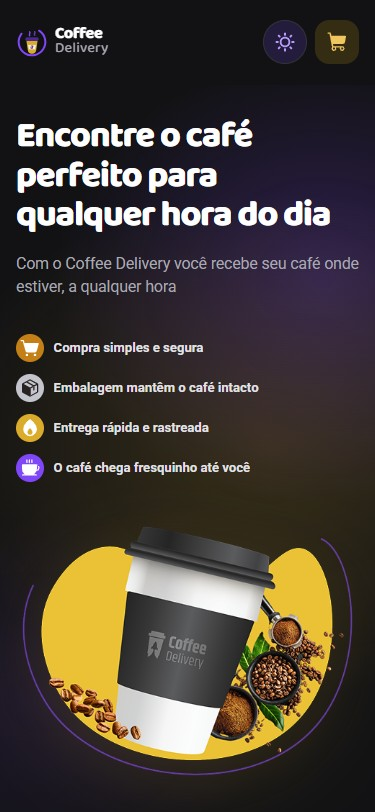
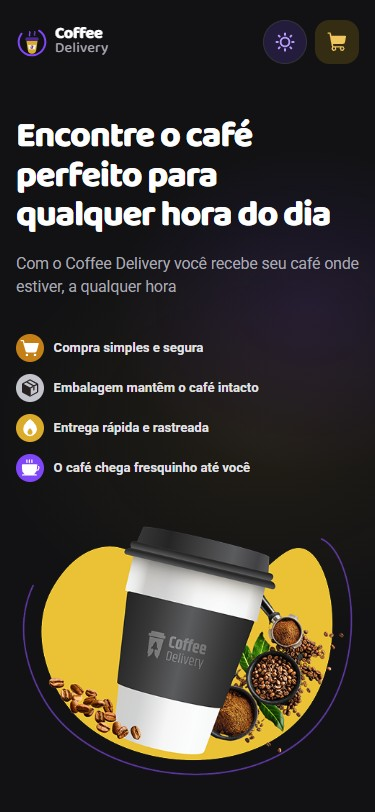
fix: restore figma aligned effects after glow review

diff --git a/src/styles/index.css b/src/styles/index.css
@@ -9,22 +9,11 @@
 @theme {
   --ease-fluid: cubic-bezier(0.22, 1, 0.36, 1);
 
-  --color-brand-purple: var(--purple);
-  --color-brand-yellow: var(--yellow);
-
   --shadow-elev-xs: var(--shadow-xs);
   --shadow-elev-sm: var(--shadow-sm);
   --shadow-elev-md: var(--shadow-md);
   --shadow-elev-lg: var(--shadow-lg);
   --shadow-elev-brand: var(--shadow-brand);
-  --shadow-glow-purple:
-    0 0 0 1px color-mix(in srgb, var(--purple) 38%, transparent),
-    0 10px 28px -10px color-mix(in srgb, var(--purple) 60%, transparent);
-  --shadow-glow-gold:
-    0 0 0 1px color-mix(in srgb, var(--yellow) 50%, transparent),
-    0 12px 32px -10px color-mix(in srgb, var(--yellow) 75%, transparent);
-  --shadow-glow-soft:
-    0 0 24px -8px color-mix(in srgb, var(--purple) 28%, transparent);
 
   --animate-fade-up: fade-up 420ms var(--ease-fluid) both;
   --animate-fade-up-card: fade-up 520ms var(--ease-fluid) both;
@@ -42,8 +31,6 @@
   --animate-spin-slow: spin 0.9s linear infinite;
   --animate-float: float 6s ease-in-out infinite;
   --animate-confetti: confetti-fall 2.4s cubic-bezier(0.22, 0.61, 0.36, 1) forwards;
-  --animate-glow-breathe: glow-breathe 8s ease-in-out infinite;
-  --animate-shine: shine 900ms ease-out;
 
   @keyframes fade-up {
     from {
@@ -120,24 +107,6 @@
     }
   }
 
-  @keyframes glow-breathe {
-    0%,
-    100% {
-      opacity: 0.75;
-    }
-    50% {
-      opacity: 1;
-    }
-  }
-
-  @keyframes shine {
-    0% {
-      transform: translateX(-120%);
-    }
-    100% {
-      transform: translateX(120%);
-    }
-  }
 }
 
 /* ------------------------------------------------------------------ */
@@ -392,7 +361,7 @@ legend {
   left: 0;
   background: linear-gradient(
     90deg,
-    color-mix(in srgb, var(--purple) 18%, transparent),
+    color-mix(in srgb, var(--purple) 12%, transparent),
     transparent
   );
 }
@@ -401,7 +370,7 @@ legend {
   right: 0;
   background: linear-gradient(
     -90deg,
-    color-mix(in srgb, var(--purple) 18%, transparent),
+    color-mix(in srgb, var(--purple) 12%, transparent),
     transparent
   );
 }

diff --git a/src/pages/Home/styles.module.css b/src/pages/Home/styles.module.css
@@ -21,40 +21,29 @@
   z-index: 0;
   background:
     radial-gradient(
-      30rem 22rem at 72% 48%,
-      rgba(219, 172, 44, 0.32),
-      transparent 72%
-    ),
-    radial-gradient(
-      24rem 20rem at 86% 26%,
-      rgba(128, 71, 248, 0.22),
+      24rem 18rem at 70% 46%,
+      rgba(219, 172, 44, 0.15),
       transparent 70%
     ),
     radial-gradient(
-      20rem 16rem at 12% 82%,
-      rgba(241, 233, 201, 0.24),
-      transparent 72%
+      18rem 15rem at 82% 30%,
+      rgba(128, 71, 248, 0.09),
+      transparent 68%
     );
-  @apply animate-glow-breathe;
   pointer-events: none;
 }
 
 [data-theme='dark'] .hero::before {
   background:
     radial-gradient(
-      30rem 22rem at 72% 48%,
-      rgba(219, 172, 44, 0.18),
-      transparent 72%
-    ),
-    radial-gradient(
-      24rem 20rem at 86% 26%,
-      rgba(128, 71, 248, 0.26),
+      24rem 18rem at 70% 46%,
+      rgba(219, 172, 44, 0.08),
       transparent 70%
     ),
     radial-gradient(
-      20rem 16rem at 12% 82%,
-      rgba(128, 71, 248, 0.1),
-      transparent 72%
+      18rem 15rem at 82% 30%,
+      rgba(128, 71, 248, 0.13),
+      transparent 68%
     );
 }
 
@@ -150,7 +139,6 @@
 .heroImage {
   width: min(100%, 29.75rem);
   height: auto;
-  @apply drop-shadow-[0_18px_38px_rgba(219,172,44,0.18)];
 }
 
 /* ------------------------------------------------------------------ */
@@ -201,7 +189,7 @@
   font-weight: 700;
   letter-spacing: 0.03em;
   text-transform: uppercase;
-  @apply transition-[background-color,color,border-color,transform,box-shadow] duration-[140ms];
+  @apply transition-[background-color,color,border-color,transform] duration-[140ms];
 }
 
 .filter:hover {
@@ -215,7 +203,6 @@
   background: var(--purple-solid);
   border-color: var(--purple-solid);
   color: var(--on-purple-solid);
-  @apply shadow-glow-purple;
 }
 
 .grid {

diff --git a/src/pages/Checkout/styles.module.css b/src/pages/Checkout/styles.module.css
@@ -1025,7 +1025,6 @@
 }
 
 .submit {
-  position: relative;
   display: flex;
   align-items: center;
   justify-content: center;
@@ -1042,32 +1041,13 @@
   font-weight: 700;
   letter-spacing: 0.045em;
   text-transform: uppercase;
-  overflow: hidden;
   @apply transition-[background-color,transform,box-shadow] duration-[140ms];
 }
 
-.submit::after {
-  content: '';
-  position: absolute;
-  inset: 0;
-  pointer-events: none;
-  background: linear-gradient(
-    100deg,
-    transparent 30%,
-    rgba(255, 255, 255, 0.38) 50%,
-    transparent 70%
-  );
-  transform: translateX(-120%);
-}
-
-.submit:hover:not(:disabled) {
+.submit:hover {
   background: var(--yellow-dark);
   color: #ffffff;
-  @apply -translate-y-px shadow-glow-gold;
-}
-
-.submit:hover:not(:disabled)::after {
-  @apply animate-shine;
+  @apply -translate-y-px shadow-elev-brand;
 }
 
 .submit:active {

diff --git a/src/components/EmptyState/styles.module.css b/src/components/EmptyState/styles.module.css
@@ -36,7 +36,6 @@
 }
 
 .action {
-  position: relative;
   display: inline-flex;
   align-items: center;
   justify-content: center;
@@ -50,30 +49,11 @@
   text-transform: uppercase;
   font-size: 0.8125rem;
   letter-spacing: 0.04em;
-  overflow: hidden;
   @apply transition-[background-color,transform,box-shadow] duration-[140ms];
-}
-
-.action::after {
-  content: '';
-  position: absolute;
-  inset: 0;
-  pointer-events: none;
-  background: linear-gradient(
-    100deg,
-    transparent 30%,
-    rgba(255, 255, 255, 0.38) 50%,
-    transparent 70%
-  );
-  transform: translateX(-120%);
 }
 
 .action:hover {
   background: var(--yellow-dark);
   color: #ffffff;
-  @apply -translate-y-px shadow-glow-gold;
-}
-
-.action:hover::after {
-  @apply animate-shine;
+  @apply -translate-y-px shadow-elev-brand;
 }

diff --git a/src/pages/Success/styles.module.css b/src/pages/Success/styles.module.css
@@ -241,7 +241,6 @@
 }
 
 .cta {
-  position: relative;
   display: flex;
   align-items: center;
   justify-content: center;
@@ -257,32 +256,13 @@
   font-weight: 700;
   letter-spacing: 0.04em;
   text-transform: uppercase;
-  overflow: hidden;
   @apply transition-[background-color,transform,box-shadow] duration-[140ms];
-}
-
-.cta::after {
-  content: '';
-  position: absolute;
-  inset: 0;
-  pointer-events: none;
-  background: linear-gradient(
-    100deg,
-    transparent 30%,
-    rgba(255, 255, 255, 0.38) 50%,
-    transparent 70%
-  );
-  transform: translateX(-120%);
 }
 
 .cta:hover {
   background: var(--yellow-dark);
   color: #ffffff;
-  @apply -translate-y-px shadow-glow-gold;
-}
-
-.cta:hover::after {
-  @apply animate-shine;
+  @apply -translate-y-px shadow-elev-brand;
 }
 
 .confetti {

diff --git a/src/components/CoffeeCard/styles.module.css b/src/components/CoffeeCard/styles.module.css
@@ -109,12 +109,11 @@
   border-radius: 0.5rem;
   background: var(--purple-solid);
   color: var(--on-purple-solid);
-  @apply transition-[background-color,transform,box-shadow] duration-[140ms];
+  @apply transition-[background-color,transform] duration-[140ms];
 }
 
 .addButton:hover {
   background: var(--purple);
-  @apply shadow-glow-purple;
 }
 
 .addButton:active {
@@ -128,7 +127,6 @@
 
 .added:hover {
   background: var(--success);
-  @apply shadow-none;
 }
 
 @media (max-width: 640px), (pointer: coarse) {

diff --git a/src/components/Header/styles.module.css b/src/components/Header/styles.module.css
@@ -62,13 +62,12 @@
   border-radius: 0.9rem;
   background: var(--yellow-light);
   color: var(--yellow-text);
-  @apply transition-[background-color,color,transform,box-shadow] duration-[140ms];
+  @apply transition-[background-color,color,transform] duration-[140ms];
 }
 
 .cart:hover {
   background: var(--yellow);
   color: #272221;
-  @apply shadow-glow-gold;
 }
 
 .cart:active {

diff --git a/docs/AI_USAGE.md b/docs/AI_USAGE.md
@@ -174,7 +174,7 @@ Com os quadros oficiais de estilo e o próprio arquivo do Figma em mãos (18/11/
 **Lote 4 (efeitos em Tailwind CSS)**
 
 - Instalado **Tailwind CSS 4** com `@tailwindcss/vite`; o projeto continua usando CSS Modules para layout, cores, tipografia e temas.
-- Um bloco `@theme` em `src/styles/index.css` centraliza apenas tokens de efeito: `--animate-*`, `--ease-fluid`, `--shadow-elev-*` e `--color-brand-*`.
+- Um bloco `@theme` em `src/styles/index.css` centraliza apenas tokens de efeito: `--animate-*`, `--ease-fluid` e `--shadow-elev-*`.
 - Cada módulo que tem efeito passou a usar `@reference ../../styles/index.css` e `@apply` para transições, hover, active, sombras e animações. Os keyframes (`fade-up`, `pop`, `fade-in`, `toast-in`, `spin`, `confetti-fall`) saíram dos módulos e vivem no `@theme`.
 - A intenção foi **trocar a implementação dos efeitos, não o visual**: os 19 testes E2E, os 124 testes unitários e as capturas foram revalidadas após a migração.
 
@@ -190,6 +190,13 @@ Com os quadros oficiais de estilo e o próprio arquivo do Figma em mãos (18/11/
 
 - **Background com cor visível**: o halo do hero foi reforçado (âmbar 32%, lavanda 22% e um terceiro radial creme) e o glow lateral das páginas subiu de 12% para 18%, para que os efeitos apareçam de fato no tema claro.
 - **Miniatura do carrinho**: o fundo amarelo (`--yellow-light`) foi trocado por `--bg-subtle` (`#F3F2F2`), eliminando o quadrado amarelo atrás do PNG do produto.
+
+**Lote 7 (revisão final dos efeitos)**
+
+- O pedido de **glow/brilho** foi aplicado, mas os valores resultantes divergiram do frame Figma.
+- A revisão restaurou o halo do hero (âmbar 0.15 / lavanda 0.09 no claro), o glow lateral (12%), o `drop-shadow` do hero e os efeitos de botão ao estado auditado.
+- Removidos os tokens `--shadow-glow-*`, `--animate-glow-breathe`, `--animate-shine`, os glows de botões, os filtros ativos e o sweep de brilho, restaurando as utilidades originais.
+- A miniatura do carrinho permanece sem fundo amarelo (`--bg-subtle`).
 
 A auditoria foi feita **no próprio Figma view-only dentro do browser**, com zoom no canvas por rueda sintética — o MCP oficial do Figma não ficou disponível na sessão (o bloco `mcpServers` precisava virar `mcp.remote` no `opencode.json` e a sessão exigiria reabrir para os tools aparecerem; a URL fornecida abre em modo de visualização pública). As telas de Dark Mode e mobile do Figma não existem no arquivo — o dark mode segue a adaptação do projeto.
 

diff --git a/docs/TASKS_SPEC.md b/docs/TASKS_SPEC.md
@@ -35,6 +35,7 @@ Este documento registra o planejamento granular do desenvolvimento do **Coffee D
 | **TASK-23** | Efeitos em Tailwind CSS | RF-15, RNF-01 | `vite.config.ts`, `package.json`, `src/styles/index.css`, CSS Modules de componentes/páginas, `docs/*.md`, `README.md` | Hover, transições, sombras e animações via utilities/tokens Tailwind, sem mudança visual | `style: migrate ui effects to tailwind css` | [x] Concluído — `@tailwindcss/vite` + `@theme` de efeitos; `@apply`/`@reference` nos módulos; 124 unitários e 19 E2E verdes, capturas revalidadas |
 | **TASK-24** | Glow e brilho na interface | RF-15, RF-16 | `src/styles/index.css`, `src/pages/Home/styles.module.css`, `src/pages/Checkout/styles.module.css`, `src/pages/Success/styles.module.css`, `src/components/*/styles.module.css`, `docs/*.md`, `README.md` | Halo do hero com respiração, glow nos botões e sweep de brilho nas CTAs | `style: add hero glow and button shine` | [x] Concluído — tokens `shadow-glow-*`, `animate-glow-breathe` e `animate-shine`; 124 unitários e 19 E2E verdes, capturas revalidadas |
 | **TASK-25** | Correções visuais dos prints finais | RF-15, RF-16 | `src/pages/Home/styles.module.css`, `src/styles/index.css`, `src/components/CartItem/styles.module.css`, `docs/*.md` | Background com efeitos de cor visíveis e miniatura do carrinho sem fundo amarelo | `fix: strengthen background glow and neutralize cart thumbnail` | [x] Concluído — halo do hero reforçado, glow lateral 18% e thumb `--bg-subtle`; 124 unitários e 19 E2E verdes, capturas revalidadas |
+| **TASK-26** | Revisão final dos efeitos contra o frame | RF-15, RF-16 | `src/styles/index.css`, `src/pages/Home/styles.module.css`, `src/pages/Checkout/styles.module.css`, `src/pages/Success/styles.module.css`, `src/components/*/styles.module.css`, `docs/*.md`, `README.md` | Glow/brilho removidos por divergência; efeitos restaurados ao estado auditado | `fix: restore figma-aligned effects after glow review` | [x] Concluído — hero/edge/efeitos de botão voltam aos valores do frame; 124 unitários e 19 E2E verdes |
 
 ---
 

diff --git a/README.md b/README.md
@@ -54,7 +54,7 @@ Todo o estado do carrinho e o tema escolhido sobrevivem a recarregamentos. Não 
 - **Tela de sucesso** — snapshot do pedido, distância, janela de entrega, status/transação, cartão mascarado e confete.
 - **Estados vazios** — checkout sem itens e `/success` acessada sem pedido.
 - **Tema claro/escuro** — persistido, com preferência do sistema e aplicação antes do primeiro paint.
-- **Efeitos de UI em Tailwind CSS v4** — header com sombra ao rolar, hover/foco com transição, **halo pulsante no hero**, **glow nos botões** e sweep de brilho nas CTAs, além de animações de entrada/toast/confete e `prefers-reduced-motion`.
+- **Efeitos de UI em Tailwind CSS v4** — header com sombra ao rolar, hover/foco com transição, halo local no hero, animações de entrada/toast/confete e `prefers-reduced-motion`.
 - **Acessibilidade** — skip link, landmarks, foco visível, labels, `aria-label`, `aria-live`, contraste AA e alvos de toque de 44px.
   - Exceções documentadas (fidelidade ao Figma): `--text-label` `#8D8686` (3,05–3,57:1) e CTA amarelo com rótulo branco (`#FFFFFF`/`#DBAC2C`); a suíte a11y isola apenas esses dois pares na regra `color-contrast`.
 - **Responsividade** — validada em 320, 375, 768 e 1280+ sem scroll horizontal.
